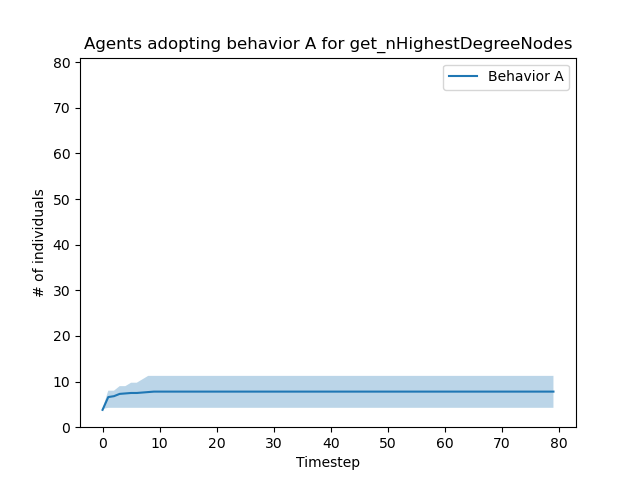
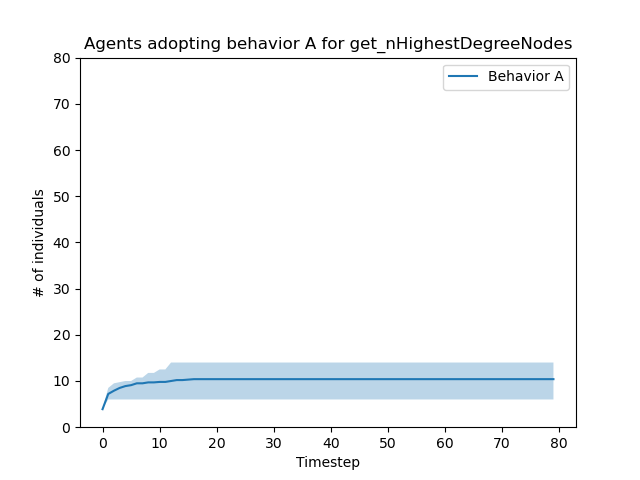
Completed results

diff --git a/Project03/AssortativeNetworkManager.py b/Project03/AssortativeNetworkManager.py
@@ -23,9 +23,10 @@ class MixedNetworkFormation:
         self.cyan = 2
         self.green = 3
         self.color_template = color_template
-        self.typeList = [self.blue, self.magenta, self.cyan, self.green]
+        # self.typeList = [self.blue, self.magenta, self.cyan, self.green]
         num_types = 4
-        self.typeList = self.typeList[:num_types]
+        # self.typeList = self.typeList[:num_types]
+        self.typeList = list(range(num_types))
         assert len(self.typeList) == num_types
         # more weakly assortative
         self.Eij = np.array(
@@ -45,6 +46,17 @@ class MixedNetworkFormation:
                 [0.03, 0.02, 0.01, 0.4],
             ]
         )  # Mixing matrix
+        # six types
+        # self.Eij = np.array(
+        # [
+        # [0.4, 0.02, 0.01, 0.03, 0.01, 0.03],
+        # [0.02, 0.4, 0.03, 0.02, 0.02, 0.02],
+        # [0.01, 0.03, 0.4, 0.01, 0.01, 0.03],
+        # [0.03, 0.02, 0.01, 0.4, 0.03, 0.01],
+        # [0.01, 0.01, 0.01, 0.03, 0.4, 0.02],
+        # [0.03, 0.02, 0.03, 0.01, 0.02, 0.4],
+        # ]
+        # )  # Mixing matrix
         self.G = nx.Graph()
 
         # Run the algorithm
